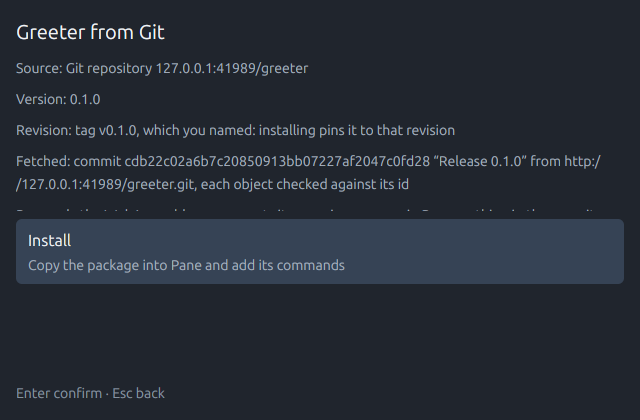
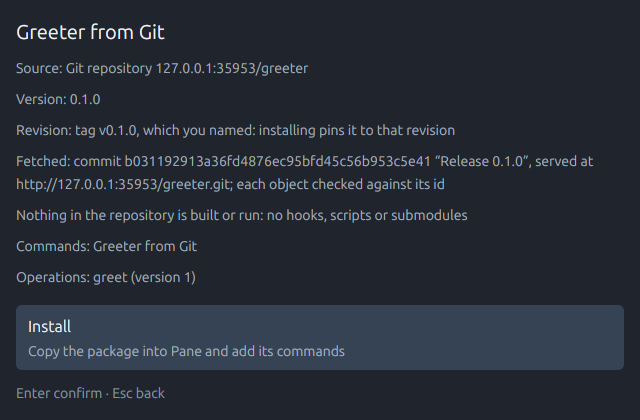
Record the Linux Git frames after the #46 review
The whole Linux smoke passed with #36 merged; frames 300 to 304 were
looked at. 302 (cropped to Pane's window, without home paths) now shows
the Git lines whole above Install; 300 is from the same run, and 304 did
not change.

diff --git a/docs/platforms/linux.md b/docs/platforms/linux.md
@@ -693,7 +693,10 @@ be empty. Run locally on 2026-09-29 (same
 Ubuntu 26.04.1 / Xvfb / lavapipe setup): the phase passed on its own first,
 after a first run found the form row one row lower than written (no Manage
 extensions… row in a fresh data folder); then the whole smoke passed and
-frames 300 to 304 were looked at.
+frames 300 to 304 were looked at. After the review, with #36 merged, the
+whole smoke passed again, frames 300 to 304 were looked at, and 300 and 302
+were recorded again: 302 now shows every Git line whole above Install (304
+was unchanged).
 
 | Step | Evidence |
 | --- | --- |
